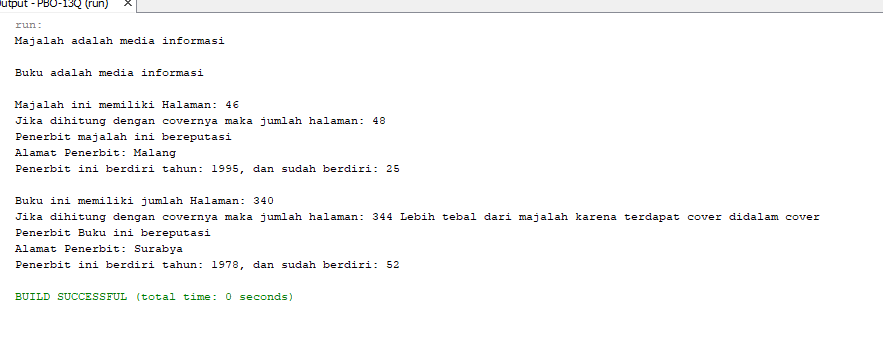
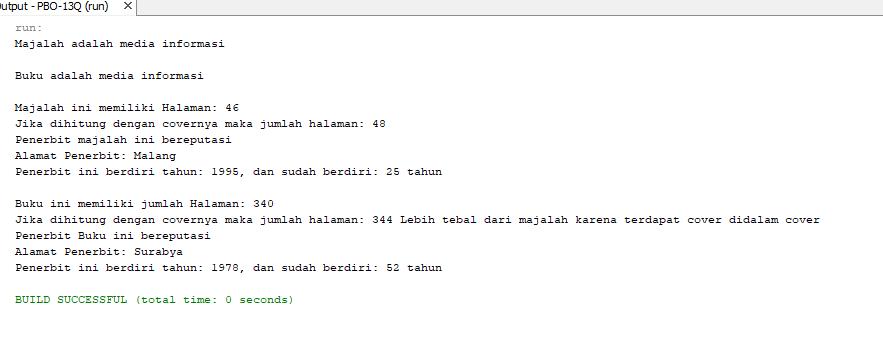
upload

diff --git a/Pertemuan-13 Quiz 2/PBO-13Q/src/pbo/pkg13q/TestMain.java b/Pertemuan-13 Quiz 2/PBO-13Q/src/pbo/pkg13q/TestMain.java
@@ -12,9 +12,9 @@ package pbo.pkg13q;
 public class TestMain {
     public static void Proses (MediaInformasi med){
         if (med instanceof Majalah){
-            System.out.println("Majalah adalah media informasi");
+            System.out.println("Majalah adalah media informasi " + "\n");
         } else if (med instanceof Buku){
-        System.out.println("Buku adalah media informasi ");
+        System.out.println("Buku adalah media informasi " + "\n");
         } else{
             System.out.println("Kategori belum diketahui");
         }

diff --git a/Pertemuan-13 Quiz 2/PBO-13Q/src/pbo/pkg13q/MediaInformasi.java b/Pertemuan-13 Quiz 2/PBO-13Q/src/pbo/pkg13q/MediaInformasi.java
@@ -34,7 +34,7 @@ public class MediaInformasi implements Penerbit{
     
     public void tahunBerdiri(int tahun){
         
-        System.out.println("Penerbit ini berdiri tahun: " + tahun + ", dan sudah berdiri: " + (this.getTahunSekarang(tahunSekarang)- tahun) + "\n");
+        System.out.println("Penerbit ini berdiri tahun: " + tahun + ", dan sudah berdiri: " + (this.getTahunSekarang(tahunSekarang)- tahun) + " tahun \n" );
         
     }
 
